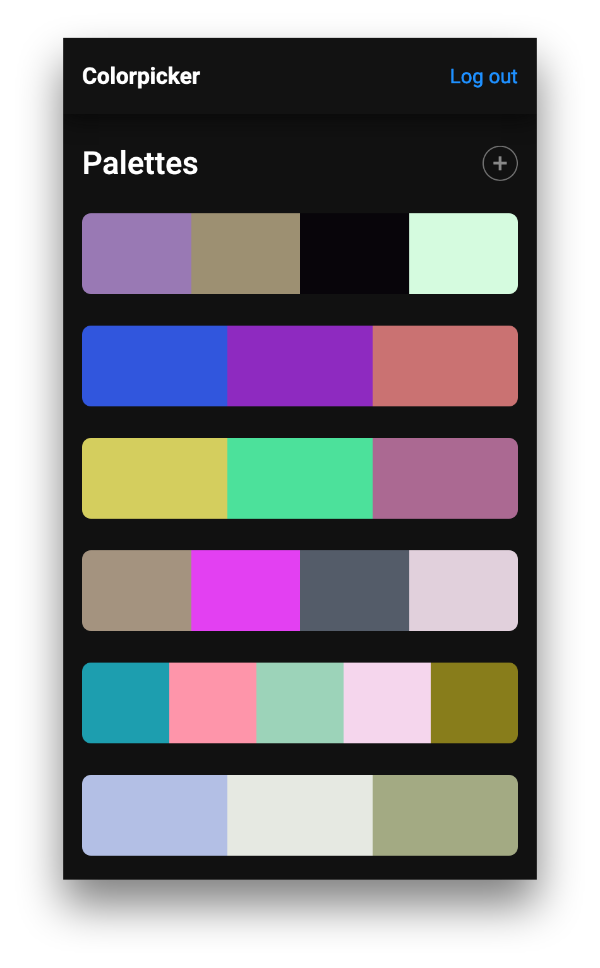
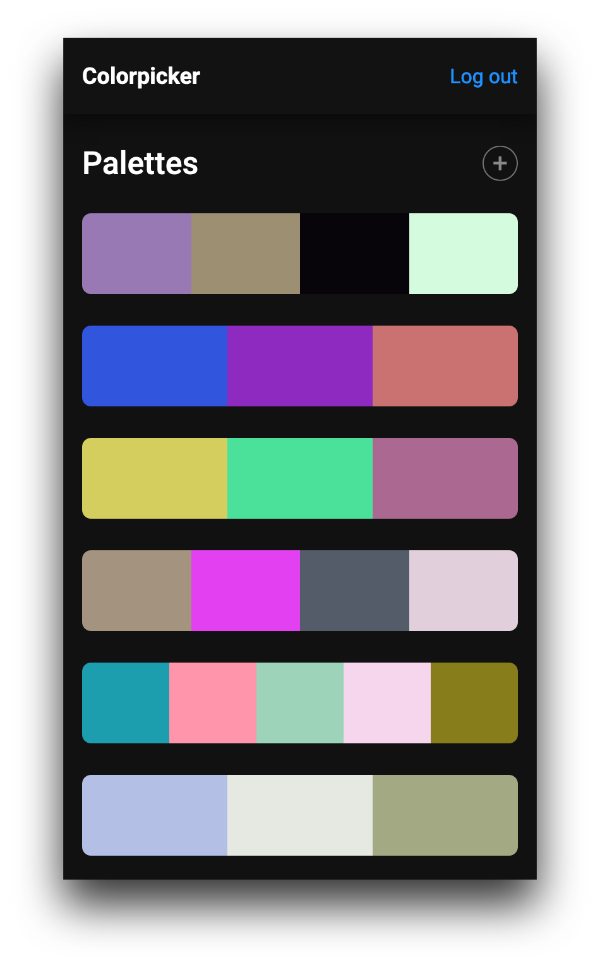
Remove css box shadow and improve them baked in

Changed region(s): [[0.09, 0.062, 0.93, 0.9607]]

diff --git a/index.css b/index.css
@@ -122,7 +122,7 @@ h1 {
   font-weight: 600;
   display: flex;
   justify-content: center;
-  margin-top: -45px;
+  margin-top: -52px;
 }
 
 .project-info-container {
@@ -198,7 +198,6 @@ h1 {
 
 .project-image-container {
   width: 400px;
-  filter: drop-shadow(0 35px 25px rgba(0,0,0,0.6));
 }
 
 @media screen and (min-width: 985px) {
